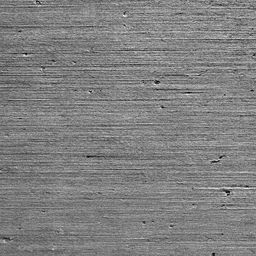
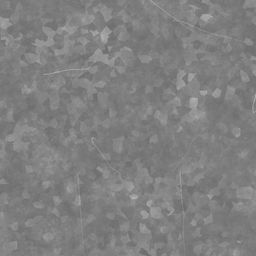
Make die finishes from material sets, add wood and rust
Metal is now worn steel and stone is granite, each with separate tiles
for color detail, relief and shine. Wood and rust are new finishes; rust
keeps its own color over whatever the die is painted. Every face shows
the tiles turned its own way, so no two faces match. Both new finishes
have flat looks and sounds, and Scrapyard is a starter set using rust.

diff --git a/index.html b/index.html
@@ -464,13 +464,22 @@ details.sect > summary::after { font-family: var(--display); }
 .fin-gem .face { opacity: .82; backface-visibility: visible; background: linear-gradient(145deg, rgba(255, 255, 255, .55) 0%, rgba(255, 255, 255, 0) 35%), linear-gradient(145deg, var(--die-hi) 0%, var(--die) 60%, var(--die-lo) 100%);
   box-shadow: inset 0 0 0 1px rgba(255, 255, 255, .35), inset 0 0 14px rgba(255, 255, 255, .3), inset 0 -5px 10px rgba(0, 0, 0, .25); }
 /* optional photo grain per finish (img/die-*.jpg, grey tiles). It sits between the face color and the pips, so any body color keeps its hue. */
-.tx-bone .fin-bone .face, .tx-resin .fin-resin .face, .tx-metal .fin-metal .face, .tx-stone .fin-stone .face, .tx-gem .fin-gem .face { isolation: isolate; }
-.tx-bone .fin-bone .face::before, .tx-resin .fin-resin .face::before, .tx-metal .fin-metal .face::before, .tx-stone .fin-stone .face::before, .tx-gem .fin-gem .face::before { content: ""; position: absolute; inset: 0; z-index: -1; border-radius: inherit; background-size: cover; mix-blend-mode: overlay; pointer-events: none; }
+.tx-bone .fin-bone .face, .tx-resin .fin-resin .face, .tx-metal .fin-metal .face, .tx-stone .fin-stone .face, .tx-wood .fin-wood .face, .tx-rust .fin-rust .face, .tx-gem .fin-gem .face { isolation: isolate; }
+.tx-bone .fin-bone .face::before, .tx-resin .fin-resin .face::before, .tx-metal .fin-metal .face::before, .tx-stone .fin-stone .face::before, .tx-wood .fin-wood .face::before, .tx-rust .fin-rust .face::before, .tx-gem .fin-gem .face::before { content: ""; position: absolute; inset: 0; z-index: -1; border-radius: inherit; background-size: cover; mix-blend-mode: overlay; pointer-events: none; }
 .tx-bone .fin-bone .face::before { background-image: url(img/die-bone.jpg); opacity: .6; }
 .tx-resin .fin-resin .face::before { background-image: url(img/die-resin.jpg); opacity: .5; }
 .tx-metal .fin-metal .face::before { background-image: url(img/die-metal.jpg); opacity: .65; }
 .tx-stone .fin-stone .face::before { background-image: url(img/die-stone.jpg); opacity: .75; }
 .tx-gem .fin-gem .face::before { background-image: url(img/die-gem.jpg); opacity: .7; }
+.tx-wood .fin-wood .face::before { background-image: url(img/die-wood.jpg); opacity: .85; }
+.tx-rust .fin-rust .face::before { background-image: url(img/die-rust.jpg); opacity: .7; }
+/* the rust itself, in its own color over whatever the die is painted. With the photo there, the drawn blotches above are not needed. */
+.txc-rust .fin-rust .face { background: linear-gradient(145deg, var(--die-hi) 0%, var(--die) 50%, var(--die-lo) 100%); }
+.txc-rust .fin-rust .face::after { content: ""; position: absolute; inset: 0; z-index: -1; border-radius: inherit; background: url(img/die-rust-c.png) center / cover; pointer-events: none; }
+.fin-wood .face { border-radius: 9px; background: repeating-linear-gradient(88deg, rgba(0, 0, 0, .07) 0 1px, transparent 1px 5px, rgba(255, 255, 255, .05) 5px 6px, transparent 6px 11px), linear-gradient(145deg, var(--die-hi) 0%, var(--die) 55%, var(--die-lo) 100%);
+  box-shadow: inset 0 0 0 1px rgba(0, 0, 0, .3), inset 0 -4px 8px rgba(0, 0, 0, .22), inset 0 2px 4px rgba(255, 255, 255, .3); }
+.fin-rust .face { border-radius: 8px; background: radial-gradient(circle at 78% 24%, rgba(120, 52, 18, .85) 0 9%, transparent 24%), radial-gradient(circle at 20% 76%, rgba(96, 40, 14, .8) 0 12%, transparent 30%), radial-gradient(circle at 60% 88%, rgba(140, 66, 24, .6) 0 6%, transparent 16%), linear-gradient(145deg, var(--die-hi) 0%, var(--die) 50%, var(--die-lo) 100%);
+  box-shadow: inset 0 0 0 1px rgba(0, 0, 0, .45), inset 0 -3px 7px rgba(0, 0, 0, .35), inset 0 2px 3px rgba(255, 255, 255, .25); }
 .fin-fuel .face { opacity: .86; backface-visibility: visible; background: linear-gradient(to top, var(--die) 0 56%, rgba(255, 255, 255, .5) 56% 58%, rgba(255, 255, 255, .1) 58%);
   box-shadow: inset 0 0 0 1px rgba(255, 255, 255, .4), inset 0 0 12px rgba(255, 255, 255, .25), inset 0 -5px 10px rgba(0, 0, 0, .25); }
 .d3cv { position: absolute; inset: 0; width: 100%; height: 100%; pointer-events: none; }
@@ -2814,7 +2823,12 @@ function initArt() {
   probe('img/die-glass.jpg', function (im) { D3.scuffImg = im; D3.sig = ''; d3Sync(); });
   probe('img/env.jpg', function (im) { D3.envImg = im; if (D3.renderer) { d3Env(); d3Mood(); } });
   TRAYS.forEach(function (t) { if (t !== 'leather') probe('img/tray-' + t + '.jpg', function () { ART.trays[t] = true; applyTray(); }); });
-  FINISHES.forEach(function (fn) { if (fn !== 'fuel') probe('img/die-' + fn + '.jpg', function (im) { D3.tiles[fn] = im; D3.sig = ''; d3Sync(); document.documentElement.classList.add('tx-' + fn); }); });
+    FINISHES.forEach(function (fn) {
+      if (fn === 'fuel') return;
+      function got(part, cls) { return function (im) { (D3.tiles[fn] = D3.tiles[fn] || {})[part] = im; D3.sig = ''; d3Sync(); if (cls) document.documentElement.classList.add(cls); }; }
+    probe('img/die-' + fn + '.jpg', got('grain', 'tx-' + fn));
+    (DIEART[fn] || '').split('').forEach(function (p) { probe('img/die-' + fn + '-' + p + (p === 'c' ? '.png' : '.jpg'), got(p, p === 'c' ? 'txc-' + fn : '')); });
+    });
   ['tier-full', 'tier-part', 'tier-miss', 'levelup', 'empty-bestiary', 'empty-cases', 'empty-party'].forEach(function (n) {
     probe('img/' + n + '.jpg', function () { ART.misc[n] = true; renderStage(); renderSheet(); renderBeasts(); renderParty(); if (!$('#cases input:focus, #cases textarea:focus')) renderCases(); });
   });
@@ -2839,7 +2853,7 @@ function selCustom() {
    so nothing from a die reaches HTML or CSS without passing cleanDie() or strictDie() first. */
 function die0() { return { body: '#e9dcba', finish: 'bone', pip: '#6a1420', glow: false, sigil: '' }; }
 var HEX = /^#[0-9a-f]{6}$/i;
-var FINISHES = ['bone', 'resin', 'metal', 'stone', 'gem', 'fuel'], TRAYS = ['leather', 'felt', 'wood', 'slate', 'rust', 'dust', 'concrete'], SIGNAMES = ['', 'antler', 'lantern', 'crescent', 'eye', 'skull', 'cross', 'pentagram', 'pentacle', 'pupil'];
+var FINISHES = ['bone', 'resin', 'metal', 'stone', 'wood', 'rust', 'gem', 'fuel'], DIEART = { metal: 'hr', stone: 'r', wood: 'r', rust: 'hrc' }, TRAYS = ['leather', 'felt', 'wood', 'slate', 'rust', 'dust', 'concrete'], SIGNAMES = ['', 'antler', 'lantern', 'crescent', 'eye', 'skull', 'cross', 'pentagram', 'pentacle', 'pupil'];
 var SIGILS = {
   antler: '<path fill="none" stroke="currentColor" stroke-width="2.2" stroke-linecap="round" stroke-linejoin="round" d="M12 21.5v-6.5M12 15c-3-1-5-3.2-5.5-7M12 15c3-1 5-3.2 5.5-7M6.5 8L3.8 5M6.5 8L7 3.2M8.3 12L4.6 11.4M17.5 8l2.7-3M17.5 8L17 3.2M15.7 12l3.7-.6"/>',
   lantern: '<path fill="currentColor" fill-rule="evenodd" d="M10 1.5h4v2h-4zM8.5 4.5h7l1.5 3H7zM7.5 8.5h9v10h-9zM10 10.5v6h4v-6zM6.5 19.5h11v2.5h-11z"/>',
@@ -2868,7 +2882,7 @@ function mkDie(body, finish, pip, glow, sigil) { return { body: body, finish: fi
 function mkSet(name, die, tray) { return { name: name, a: die, b: die, tray: tray }; }
 var DEFSET = mkSet('Bone and Oxblood', die0(), 'leather');
 /* sets that belong to the campaign rather than a playbook */
-var XSETS = { tank: mkSet('Last Tank', mkDie('#b8650f', 'fuel', '#fff4d6', false, ''), 'slate') };
+var XSETS = { tank: mkSet('Last Tank', mkDie('#b8650f', 'fuel', '#fff4d6', false, ''), 'slate'), scrap: mkSet('Scrapyard', mkDie('#c9a227', 'rust', '#111111', false, 'skull'), 'rust') };
 /* one starter set per playbook, keyed by pbSlug(). Each passes the 3:1 pip readability rule (tested). */
 var DICESETS = {
   chosen: mkSet('Destiny\'s Edge', mkDie('#a8842c', 'metal', '#ffffff', true, 'cross'), 'slate'),
@@ -3138,6 +3152,8 @@ var SFX = {
   metal: { f: 3800, q: 8, len: .05, g: .6, ring: .28, hold: .45, over: 1.48 },
   stone: { f: 850, q: 3, len: .07, g: .9 },
   gem: { f: 5200, q: 5, len: .05, g: .7, ring: .18, hold: .2 },
+  wood: { f: 1150, q: 3, len: .06, g: .85 },
+  rust: { f: 3100, q: 6, len: .05, g: .6, ring: .12, hold: .2, over: 1.48 },
   fuel: { f: 4300, q: 5, len: .05, g: .7, ring: .12, hold: .12 }
 };
 var TRAYSFX = {
@@ -3173,6 +3189,8 @@ var DIESND = {
   resin: { set: 'dicehit_plastic', rate: 1.04, g: .9 },
   metal: { set: 'dicehit_metal', rate: 1, g: 1, w: 1.25 },
   stone: { set: 'dicehit_wood', rate: .8, g: 1, w: 1.2 },
+  wood: { set: 'dicehit_wood', rate: 1, g: 1 },
+  rust: { set: 'dicehit_metal', rate: .9, g: .95, w: 1.2 },
   gem: { set: 'dicehit_glass', rate: 4, g: .8, ring: .6 },
   fuel: { set: 'dicehit_glass', rate: 3, g: .8, w: 1.15, ring: .5 }
 };
@@ -3299,8 +3317,10 @@ var D3REST = [{ x: -.98, z: -.06, yaw: -.38 }, { x: .98, z: .1, yaw: .3 }];
 var D3MAT = {
   bone: { rough: .55, grain: .75, relief: .4, o: {} },
   resin: { rough: .14, grain: .35, relief: 0, o: { clearcoat: 1, clearcoatRoughness: .08 } },
-  metal: { rough: .34, grain: .6, relief: .35, o: { metalness: 1 } },
-  stone: { rough: .9, grain: .9, relief: .8, o: {} }
+  metal: { rough: .36, grain: .7, relief: .6, o: { metalness: 1 } },
+  stone: { rough: .42, grain: .9, relief: .2, o: {} },
+  wood: { rough: .6, grain: .95, relief: .45, o: {}, dir: true },
+  rust: { rough: .78, grain: .6, relief: .9, o: {} }
 };
 /* rough and tint shade the tray photo. n is how strong its relief map is (img/tray-<name>-n.jpg). r means it also has a map of how shiny each spot is (-r.jpg). */
 var D3TRAY = {
@@ -3473,9 +3493,15 @@ function d3Box(size, rad, seg) {
 /* one face as two pictures: the color (body, grain, wear, pips) and a relief map where pips are drilled in.
    Clear dice get painted pips only and no relief. */
 function d3Face(v, die, clear) {
-  var T = D3.T, k = D3MAT[die.finish] || D3MAT.bone, tile = D3.tiles[die.finish], c = document.createElement('canvas'), b = document.createElement('canvas'), x, y, g, i;
+  var T = D3.T, k = D3MAT[die.finish] || D3MAT.bone, art = D3.tiles[die.finish] || {}, tile = art.grain, c = document.createElement('canvas'), b = document.createElement('canvas'), x, y, g, i, r = null, w = null;
   c.width = c.height = b.width = b.height = 256; x = c.getContext('2d'); y = b.getContext('2d');
-  var out = { map: new T.CanvasTexture(c), bump: clear ? null : new T.CanvasTexture(b), glow: null }, e = null, z = null;
+  var turn = k.dir ? 0 : Math.floor(Math.random() * 4), flipX = Math.random() < .5, flipY = k.dir ? Math.random() < .5 : false;
+  function put(ctx, img, alpha, mode) {
+    ctx.save(); ctx.globalAlpha = alpha; if (mode) ctx.globalCompositeOperation = mode;
+    ctx.translate(128, 128); ctx.rotate(turn * Math.PI / 2); ctx.scale(flipX ? -1 : 1, flipY ? -1 : 1); ctx.drawImage(img, -128, -128, 256, 256); ctx.restore();
+  }
+  var out = { map: new T.CanvasTexture(c), bump: clear ? null : new T.CanvasTexture(b), rough: null, glow: null }, e = null, z = null;
+  if (!clear && art.r) { r = document.createElement('canvas'); r.width = r.height = 256; w = r.getContext('2d'); w.fillStyle = '#808080'; w.fillRect(0, 0, 256, 256); put(w, art.r, 1); out.rough = new T.CanvasTexture(r); }
   out.map.colorSpace = T.SRGBColorSpace; out.map.anisotropy = 4;
   if (die.glow) {
     /* glowing pips really give off light: a black picture with the pips and a soft halo in white, used as the face's own light */
@@ -3486,10 +3512,9 @@ function d3Face(v, die, clear) {
   if (!clear) {
     x.fillStyle = die.body; x.fillRect(0, 0, 256, 256);
     y.fillStyle = '#808080'; y.fillRect(0, 0, 256, 256);
-    if (tile) {
-      x.globalCompositeOperation = 'overlay'; x.globalAlpha = k.grain; x.drawImage(tile, 0, 0, 256, 256); x.globalCompositeOperation = 'source-over'; x.globalAlpha = 1;
-      y.globalAlpha = k.relief; y.drawImage(tile, 0, 0, 256, 256); y.globalAlpha = 1;
-    }
+    if (tile) put(x, tile, k.grain, 'overlay');
+    if (art.c) put(x, art.c, 1);
+    if (art.h || tile) put(y, art.h || tile, k.relief);
     /* handling: darker toward the edges, a few fine scratches */
     g = x.createRadialGradient(128, 128, 96, 128, 128, 186); g.addColorStop(0, 'rgba(0,0,0,0)'); g.addColorStop(1, 'rgba(0,0,0,.2)');
     x.fillStyle = g; x.fillRect(0, 0, 256, 256);
@@ -3528,6 +3553,7 @@ function d3Face(v, die, clear) {
       x.strokeStyle = 'rgba(0,0,0,.28)'; x.lineWidth = 2; x.beginPath(); x.arc(px, py, pr + 1, 0, Math.PI * 2); x.stroke();
       g = y.createRadialGradient(px, py, pr * .2, px, py, pr * 1.12); g.addColorStop(0, '#1c1c1c'); g.addColorStop(.75, '#3a3a3a'); g.addColorStop(1, 'rgba(128,128,128,0)');
       y.fillStyle = g; y.beginPath(); y.arc(px, py, pr * 1.12, 0, Math.PI * 2); y.fill();
+      if (w) { w.fillStyle = '#4a4a4a'; w.beginPath(); w.arc(px, py, pr, 0, Math.PI * 2); w.fill(); }
     }
   }
   return out;
@@ -3546,7 +3572,7 @@ function d3Build(die) {
   if (!glass) {
     var k = D3MAT[die.finish] || D3MAT.bone;
     mats = D3FACE.map(function (v) {
-      var f = d3Face(v, die, false), o = lit({ map: f.map, bumpMap: f.bump, bumpScale: 2.4, roughnessMap: f.bump, roughness: Math.min(1, k.rough * 2), metalness: 0 }, f);
+      var f = d3Face(v, die, false), o = lit({ map: f.map, bumpMap: f.bump, bumpScale: 2.4, roughnessMap: f.rough || f.bump, roughness: Math.min(1, k.rough * 2), metalness: 0 }, f);
       for (var n in k.o) o[n] = k.o[n];
       return new T.MeshPhysicalMaterial(o);
     });
@@ -3596,6 +3622,7 @@ function d3Drop(d) {
     (Array.isArray(o.material) ? o.material : [o.material]).forEach(function (m) {
       if (m.map && m.map !== D3.blob) m.map.dispose();
       if (m.bumpMap) m.bumpMap.dispose();
+      if (m.roughnessMap && m.roughnessMap !== m.bumpMap) m.roughnessMap.dispose();
       if (m.emissiveMap) m.emissiveMap.dispose();
       m.dispose();
     });

diff --git a/tests/t11.js b/tests/t11.js
@@ -75,10 +75,19 @@ function check(name, ok, extra){ results.push([ok?'PASS':'FAIL', name, extra===u
   await p.click('[data-dp-use="default"]'); await p.waitForTimeout(150);
   check('changing the set rebuilds the 3D dice (bone has no liquid) and swaps the tray photo', await p.evaluate(() => __d3.dice.length === 2 && __d3.dice.every(d => !d.plane && d.die.finish === 'bone')) && await p.waitForFunction(() => __d3.traySrc === 'img/tray.jpg' && __d3.floorOn, null, { timeout: 8000 }).then(() => true, () => false));
   await p.locator('#tray').screenshot({ path: path.join(__dirname,'out','d3-bone.png') });
-  for (const f of ['resin','metal','stone','gem']) { await p.click('[data-dp-set="finish"][data-v="'+f+'"]'); await p.waitForTimeout(120); await p.locator('#tray').screenshot({ path: path.join(__dirname,'out','d3-'+f+'.png') }); }
+  for (const f of ['resin','metal','stone','wood','rust','gem']) { await p.click('[data-dp-set="finish"][data-v="'+f+'"]'); await p.waitForTimeout(120); await p.locator('#tray').screenshot({ path: path.join(__dirname,'out','d3-'+f+'.png') }); }
   check('each finish draws', (await lit(p)) > 300);
   await p.click('[data-dp-set="sigil"][data-v="skull"]'); await p.waitForTimeout(200);
   check('a sigil does not break the 3D dice', (await d3(p)).n===2);
+
+  // ---- finishes made from material sets ----
+  check('wood and rust are offered as finishes, and Scrapyard as a set', (await p.locator('[data-dp-set="finish"][data-v="wood"], [data-dp-set="finish"][data-v="rust"], [data-dp-use="x:scrap"]').count())===3);
+  await p.click('[data-dp-use="x:scrap"]'); await p.waitForTimeout(400);
+  check('Scrapyard passes the pip readability rule', !(await p.locator('.dp-warn').count()));
+  check('rust dice: color detail, relief, shine and the rust layer all loaded, and each face has its own shine picture', await p.evaluate(()=>{ const t = __d3.tiles.rust || {}, m = __d3.dice[0].g.children[0].material[0]; return !!(t.grain && t.h && t.r && t.c) && __d3.dice[0].die.finish==='rust' && m.roughnessMap && m.roughnessMap !== m.bumpMap; }));
+  check('metal and stone now have shine pictures too, bone still uses one photo', await p.evaluate(()=>!!(__d3.tiles.metal.r && __d3.tiles.metal.h && __d3.tiles.stone.r) && !__d3.tiles.bone.r));
+  await p.locator('#tray').screenshot({ path: path.join(__dirname,'out','d3-scrapyard.png') });
+  await p.click('[data-dp-use="default"]'); await p.waitForTimeout(200);
 
   // ---- trays with relief, and the wasteland trays ----
   check('wasteland trays are offered: rust, dust and concrete', (await p.locator('[data-dp-tray="rust"], [data-dp-tray="dust"], [data-dp-tray="concrete"]').count())===3);
@@ -109,7 +118,7 @@ function check(name, ok, extra){ results.push([ok?'PASS':'FAIL', name, extra===u
   await p.evaluate(() => document.getElementById('set-3d').click()); await p.waitForTimeout(200);
   check('switching on again reuses the same canvas', (await p.locator('#tray canvas').count())===1 && (await d3(p)).state==='on');
   await p.evaluate(() => window.dispatchEvent(new Event('pagehide'))); await p.reload(); await p.waitForFunction(() => __d3.state === 'on', null, { timeout: 15000 });
-  check('reload starts in 3D with the saved dice', (await d3(p)).n===2 && await p.evaluate(() => __d3.dice[0].die.finish === 'gem'));
+  check('reload starts in 3D with the saved dice', (await d3(p)).n===2 && await p.evaluate(() => __d3.dice[0].die.finish === 'bone' && __d3.dice[0].die.glow === true));
 
   // ---- phone ----
   const m = await open({ viewport: { width: 390, height: 800 }, colorScheme: 'light' }, { v: 1, settings: { fx: true, sound: false, dice3d: true }, dice: { linked: true, a: { body: '#b8650f', finish: 'fuel', pip: '#fff4d6', glow: false, sigil: '' }, b: { body: '#b8650f', finish: 'fuel', pip: '#fff4d6', glow: false, sigil: '' }, tray: 'slate', sets: [] } });

diff --git a/tests/t12.js b/tests/t12.js
@@ -101,6 +101,18 @@ const STUB = () => {
   check('holding Roll: stone dice knock together (wood takes), no tray takes', c.dicehit_wood>=3 && !c.surface_wood_tray, JSON.stringify(c));
   await p.mouse.up(); await landed(p, 5);
 
+  // wooden dice use the wooden recordings as they are; rusty dice use the metal ones, a little lower
+  await p.click('[data-dp-set="finish"][data-v="wood"]'); await ready(p, ['dicehit_wood']); await played(p);
+  await p.locator('[data-dp-hear]').scrollIntoViewIfNeeded(); await p.click('[data-dp-hear]'); await p.waitForTimeout(1100);
+  a = await played(p); c = count(a.played);
+  const woodRates = a.rates.filter((r, i)=>a.played[i]==='dicehit_wood');
+  check('wooden dice: 8 wood takes at their natural speed', c.dicehit_wood===8 && woodRates.every(r=>r>.93 && r<1.07), woodRates.join(','));
+  await p.click('[data-dp-set="finish"][data-v="rust"]'); await ready(p, ['dicehit_metal']); await played(p);
+  await p.click('[data-dp-hear]'); await p.waitForTimeout(1100);
+  a = await played(p); c = count(a.played);
+  check('rusty dice: 8 metal takes', c.dicehit_metal===8, JSON.stringify(c));
+  await p.click('[data-dp-set="finish"][data-v="stone"]'); await p.waitForTimeout(150);
+
   // a wasteland tray: rusted plate rings like metal
   await p.click('[data-dp-tray="rust"]'); await ready(p, ['surface_metal']); await played(p);
   await p.locator('[data-dp-hear]').scrollIntoViewIfNeeded(); await p.click('[data-dp-hear]'); await p.waitForTimeout(1100);

diff --git a/tools/make_textures.py b/tools/make_textures.py
@@ -3,7 +3,7 @@
 Die finishes become 256px grey tiles with the lighting flattened, so the page can lay them over any body colour.
 Trays are cropped and saved as 1200px JPEGs. The reflection panorama for the 3D dice becomes img/env.jpg.
 
-    python tools/make_textures.py <folder of source images> [<folder of Poly Haven downloads>]
+    python tools/make_textures.py <folder of source images> [<folder of Poly Haven downloads> [<folder of ambientCG downloads>]]
 
 The crop boxes below are (left, top, right, bottom) in source pixels.
 """
@@ -16,8 +16,6 @@ OUT = os.path.join(os.path.dirname(__file__), '..', 'img')
 # finish: (source file, crop box, contrast)
 DICE = {
     'gem':   ('2.webp',  (330, 300, 730, 700), 1.0),
-    'stone': ('4.webp',  (100, 100, 800, 800), 1.0),
-    'metal': ('8.webp',  (100, 100, 800, 800), 1.3),
     'resin': ('10.webp', (300, 380, 900, 980), 2.2),
     'bone':  ('15.webp', (130, 60, 760, 690), 1.3),
 }
@@ -88,5 +86,35 @@ if PH:
         top('rough').convert('L').resize((512, 256), Image.LANCZOS).save(os.path.join(OUT, 'tray-%s-r.jpg' % name), quality=80, optimize=True)
         made += 1
 
-print('wrote', len(DICE), 'die textures,', len(TRAYS), 'photo trays with relief and', made, 'wasteland trays')
+# Die finishes made from real material sets (CC0). Each set has separate pictures for color, relief and shine, so a die gets
+# three grey tiles instead of one photo doing all three jobs: die-<finish>.jpg (color detail), -h.jpg (relief), -r.jpg (shine).
+# Give the folder of extracted ambientCG "<id>_1K-JPG" downloads as a third argument.
+#   finish: (where from, id, how much of the 1024px picture one die face shows, contrast, which extra tiles: h relief, r shine)
+ACG = sys.argv[3] if len(sys.argv) > 3 else None
+MATS = {
+    'metal': ('acg', 'Metal038', 620, 1.4, 'hr'),      # worn, scratched steel
+    'stone': ('acg', 'Granite002A', 640, 1.0, 'r'),    # speckled granite, polished, so no relief of its own
+    'wood': ('ph', 'oak_veneer_01', 330, 1.3, 'r'),    # oak, close enough in that the grain reads on a small die; veneer is flat too
+    'rust': ('ph', 'rusty_metal_03', 560, .9, 'hr'),   # painted steel with rust coming through
+}
+mats = 0
+for name, (lib, pid, size, c, extra) in MATS.items():
+    root = PH if lib == 'ph' else ACG
+    if not root: continue
+    part = (lambda kind: os.path.join(root, '%s_%s.jpg' % (pid, {'color': 'diff', 'relief': 'disp', 'shine': 'rough'}[kind]))) if lib == 'ph' else            (lambda kind: os.path.join(root, pid, '%s_1K-JPG_%s.jpg' % (pid, {'color': 'Color', 'relief': 'Displacement', 'shine': 'Roughness'}[kind])))
+    box = (100, 100, 100 + size, 100 + size)
+    for kind, tail in (('color', ''), ('relief', '-h'), ('shine', '-r')):
+        if tail and tail[1] not in extra: continue
+        im = Image.open(part(kind)).convert('RGB').crop(box)
+        flatten(im, c).resize((256, 256), Image.LANCZOS).save(os.path.join(OUT, 'die-%s%s.jpg' % (name, tail)), quality=80, optimize=True)
+    if name == 'rust':
+        # the rust itself keeps its own color whatever the die is painted: a see-through picture with only the rusty parts in it
+        a = np.asarray(Image.open(part('color')).convert('RGB').crop(box).resize((256, 256), Image.LANCZOS)).astype(np.float32)
+        redness = (a[..., 0] - a[..., 1]) / (a[..., 0] + a[..., 1] + 1e-3)          # rust is redder than the paint
+        alpha = np.clip((redness - .21) / .10, 0, 1) * 255
+        Image.fromarray(np.dstack([a, alpha]).astype(np.uint8), 'RGBA').save(os.path.join(OUT, 'die-rust-c.png'), optimize=True)
+    mats += 1
+
+print('wrote', len(DICE), 'photo die textures,', mats, 'die finishes from material sets,', len(TRAYS), 'photo trays with relief and', made, 'wasteland trays')
+
 

diff --git a/CLAUDE.md b/CLAUDE.md
@@ -8,7 +8,7 @@ Single-file vanilla JS app for a Monster of the Week campaign. Owner: Jacob, a f
 - Playbook moves and descriptions are plain-English paraphrase on purpose. Do not paste text from the official playbooks. Mechanical facts stay exact: ratings lines, harm/armor numbers, tags, thresholds, pick counts.
 - No emoji. Avoid em dashes in user-facing copy. Keep copy friendly and beginner-oriented.
 - Support light and dark themes (CSS tokens in `:root`, dark overrides under `prefers-color-scheme` and `[data-theme]`). Check 390px width: no horizontal page scroll.
-- All images are optional; the page probes each one on load and works without them. Die grain (`img/die-<finish>.jpg`) and tray photos (`img/tray-<tray>.jpg`, leather is `img/tray.jpg`) are made from source photos by `python tools/make_textures.py <folder> [<Poly Haven folder>]`; the crop boxes live in that script. It also makes each tray's relief map (`-n.jpg`, used by the 3D dice) and builds the rust, dust and concrete trays whole from Poly Haven materials (CC0).
+- All images are optional; the page probes each one on load and works without them. Die grain (`img/die-<finish>.jpg`) and tray photos (`img/tray-<tray>.jpg`, leather is `img/tray.jpg`) are made from source photos by `python tools/make_textures.py <folder> [<Poly Haven folder>]`; the crop boxes live in that script. Metal, stone, wood and rust dice are made from material sets instead (ambientCG and Poly Haven, CC0), which give separate tiles for color detail, relief (`-h`) and shine (`-r`); `DIEART` in the page says which finish has which, and rust also has a see-through layer of the rust itself (`die-rust-c.png`). It also makes each tray's relief map (`-n.jpg`, used by the 3D dice) and builds the rust, dust and concrete trays whole from Poly Haven materials (CC0).
 - `sw.js` and `manifest.webmanifest` are the only other shipped files (offline copy and install). The page is fetched network-first, so a deploy shows up on the next online load. Bump `CACHE` in `sw.js` only to throw away old cached art.
 - Ratings are parked per playbook (`S.sheet.pbs[name].stats`) by `setPlaybook()`; always change playbook through it.
 

diff --git a/docs/TODO.md b/docs/TODO.md
@@ -38,7 +38,7 @@ The first pass was made entirely in code. Real recordings, sorted by die and by 
 
 - [x] Lighting moods (2026-10-08): Garage, Dusk and Lantern, each a real HDR surrounding from Poly Haven. Jacob's garage panorama is now only the stand-in while one loads. Glowing pips now give off light.
 - [x] Trays with relief (2026-10-08): the four photo trays have relief worked out from their own photos, and three wasteland trays (rust, dust, concrete) come whole from Poly Haven with relief and shine maps. They have sounds too: rust rings like metal.
-- [ ] Die materials from real material sets: a corroded-metal finish is the obvious first one (ambientCG has the most rust). Bone and resin would gain little.
+- [x] Die materials from real material sets (2026-10-08): metal is now worn steel and stone is granite (both ambientCG), and two new finishes, wood (oak) and rust (painted steel with rust coming through, in any body color), come from Poly Haven. Scrapyard is a starter set using rust. Bone, resin and gem still use Jacob's photos.
 - [ ] A wasteland color palette for bodies and pips (rust, sand, hazard yellow, oil black, coolant green).
 - [x] Scuffed glass: in as `img/die-glass.jpg`, drawn as scratches on the Fuel shell (2026-10-08).
 - [ ] The dice maker's preview is still the flat dice. Show the 3D dice there when 3D is on.

diff --git a/snd/README.md b/snd/README.md
@@ -17,8 +17,8 @@ Two sources.
 | Files | What | Used for |
 |---|---|---|
 | `dicehit_plastic1` to `15` | plastic dice knocking together | bone (slowed a little) and resin |
-| `dicehit_metal1` to `12` | metal dice knocking together | metal |
-| `dicehit_wood1` to `12` | wooden dice knocking together | stone (slowed) |
+| `dicehit_metal1` to `12` | metal dice knocking together | metal, and rust (slowed a little) |
+| `dicehit_wood1` to `12` | wooden dice knocking together | wood, and stone (slowed) |
 | `surface_felt1` to `7` (no 6) | a die landing on felt | felt, and leather (slowed) |
 | `surface_wood_tray1` to `7` | a die landing in a wooden tray | wood |
 | `surface_wood_table1` to `7` | a die landing on a wooden table | slate and concrete (sped up) |
